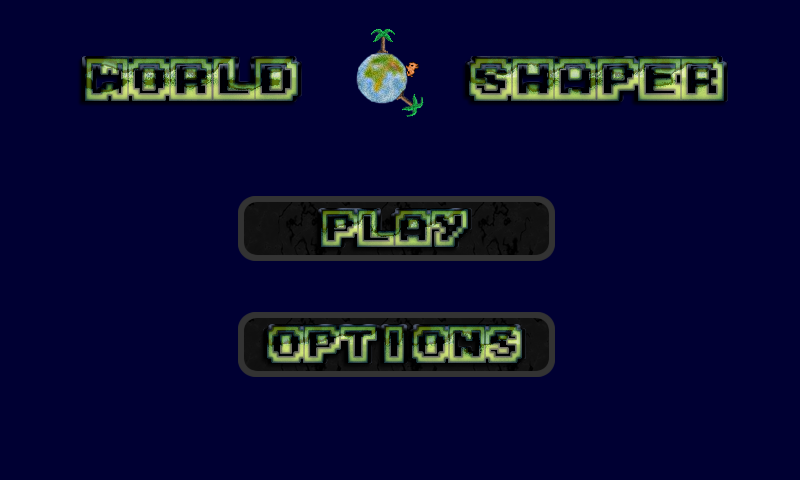
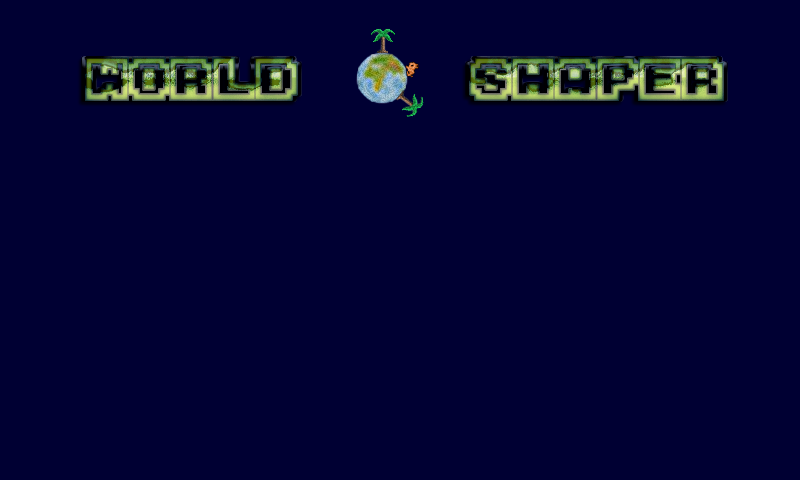
main_menu: added play and options buttons to the scene

Changed region(s): [[0.2812, 0.625, 0.7188, 0.8125], [0.2812, 0.4062, 0.7188, 0.5625], [0.4375, 0.125, 0.5, 0.2188]]

diff --git a/src/com/etherprod/worldshaper/ui/scene/MainMenuScene.java b/src/com/etherprod/worldshaper/ui/scene/MainMenuScene.java
@@ -1,6 +1,11 @@
 package com.etherprod.worldshaper.ui.scene;
 
 import org.andengine.engine.camera.Camera;
+import org.andengine.entity.scene.menu.MenuScene;
+import org.andengine.entity.scene.menu.MenuScene.IOnMenuItemClickListener;
+import org.andengine.entity.scene.menu.item.IMenuItem;
+import org.andengine.entity.scene.menu.item.SpriteMenuItem;
+import org.andengine.entity.scene.menu.item.decorator.ScaleMenuItemDecorator;
 import org.andengine.entity.sprite.Sprite;
 import org.andengine.opengl.texture.TextureOptions;
 import org.andengine.opengl.texture.atlas.bitmap.BitmapTextureAtlas;
@@ -17,9 +22,15 @@ import com.etherprod.worldshaper.MainActivity;
 import com.etherprod.worldshaper.ResourcesManager;
 import com.etherprod.worldshaper.ui.scene.SceneManager.SceneType;
 
-public class MainMenuScene extends MyScene
+public class MainMenuScene extends MyScene implements IOnMenuItemClickListener
 {
+	private MenuScene menuChildScene;
+	private final int MENU_PLAY = 0;
+	private final int MENU_OPTIONS = 1;
+	
 	private static ITextureRegion menu_background_region;
+	private static ITextureRegion play_region;
+	private static ITextureRegion options_region;
 	    
 	private static BuildableBitmapTextureAtlas menuTextureAtlas;
 	
@@ -28,9 +39,11 @@ public class MainMenuScene extends MyScene
 		MainActivity activity = ResourcesManager.getInstance().getActivity();	
 		
 		BitmapTextureAtlasTextureRegionFactory.setAssetBasePath("menu/");
-		menuTextureAtlas = new BuildableBitmapTextureAtlas(activity.getTextureManager(), 800, 480,
+		menuTextureAtlas = new BuildableBitmapTextureAtlas(activity.getTextureManager(), 1024, 1024,
 				TextureOptions.BILINEAR);
 		menu_background_region = BitmapTextureAtlasTextureRegionFactory.createFromAsset(menuTextureAtlas, activity, "main_menu_bg.png");
+		play_region = BitmapTextureAtlasTextureRegionFactory.createFromAsset(menuTextureAtlas, activity, "play_bt.png");
+		options_region = BitmapTextureAtlasTextureRegionFactory.createFromAsset(menuTextureAtlas, activity, "options_bt.png");
 
 		try 
 		{
@@ -40,7 +53,7 @@ public class MainMenuScene extends MyScene
 		} 
 		catch (final TextureAtlasBuilderException e)
 		{
-		        Debug.e(e);
+			Debug.e(e);
 		}
 	}
 	
@@ -48,7 +61,7 @@ public class MainMenuScene extends MyScene
 	public void createScene()
 	{
 		createBackground();
-		//createButtons();
+		createButtons();
 	}
 
 	@Override
@@ -69,6 +82,21 @@ public class MainMenuScene extends MyScene
 
 	}
 
+	@Override
+	public boolean onMenuItemClicked(MenuScene pMenuScene, IMenuItem pMenuItem,
+			float pMenuItemLocalX, float pMenuItemLocalY)
+	{
+		switch(pMenuItem.getID())
+        {
+        	case MENU_PLAY:
+        		return true;
+        	case MENU_OPTIONS:
+        		return true;
+        	default:
+        		return false;
+        }
+	}
+
 	private void createBackground()
 	{
 		this.attachChild(new Sprite(0, 0, menu_background_region,
@@ -81,5 +109,30 @@ public class MainMenuScene extends MyScene
 	            pGLState.enableDither();
 	        }
 	    });	
+	}
+
+	private void createButtons()
+	{
+		menuChildScene = new MenuScene(activity.getCamera());
+	    menuChildScene.setPosition(0, 0);
+	    
+	    // zoom on click
+	    final IMenuItem playMenuItem = new ScaleMenuItemDecorator(new SpriteMenuItem(MENU_PLAY, 
+	    		play_region, activity.getVertexBufferObjectManager()), 1.2f, 1);
+	    final IMenuItem optionsMenuItem = new ScaleMenuItemDecorator(new SpriteMenuItem(MENU_OPTIONS, 
+	    		options_region, activity.getVertexBufferObjectManager()), 1.2f, 1);
+	    
+	    menuChildScene.addMenuItem(playMenuItem);
+	    menuChildScene.addMenuItem(optionsMenuItem);
+	    
+	    menuChildScene.buildAnimations();
+	    menuChildScene.setBackgroundEnabled(false);
+	    
+	    playMenuItem.setPosition(playMenuItem.getX(), playMenuItem.getY() + 26);
+	    optionsMenuItem.setPosition(optionsMenuItem.getX(), optionsMenuItem.getY() + 74);
+	    
+	    menuChildScene.setOnMenuItemClickListener(this);
+	    
+	    setChildScene(menuChildScene);
 	}
 }
